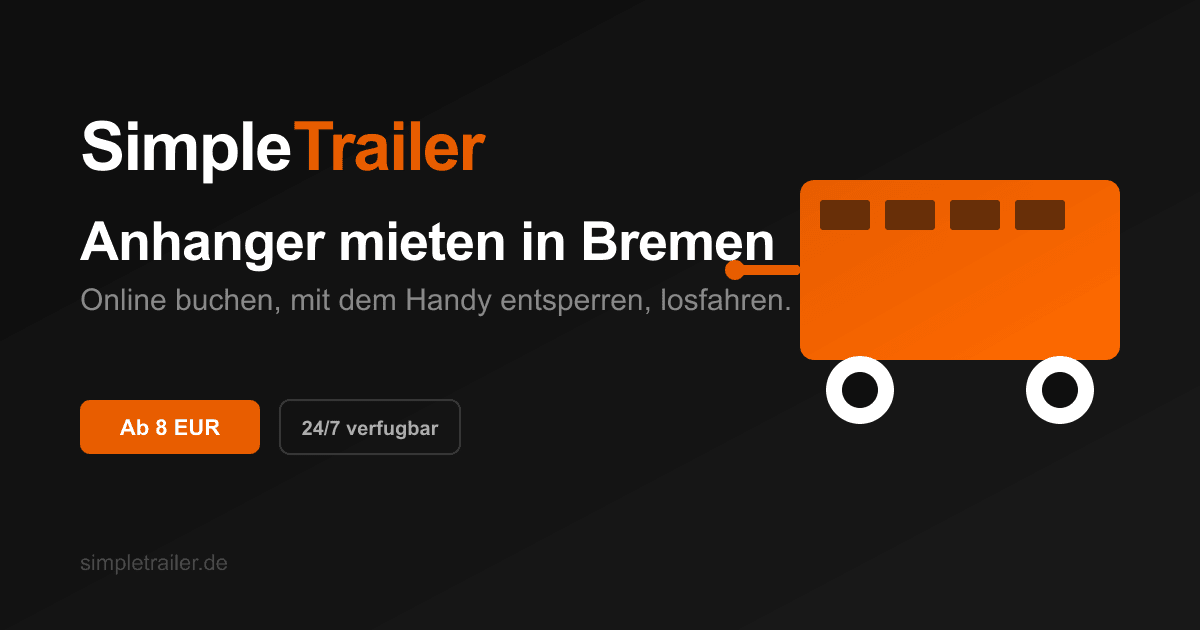
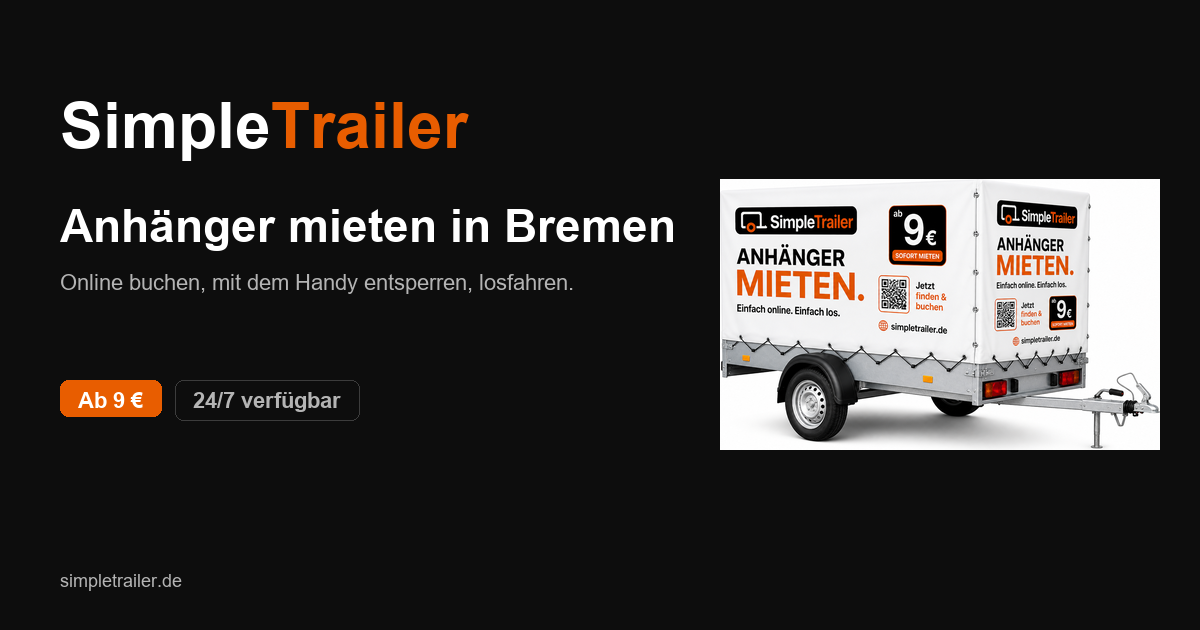
WebP fuer Trailer-Bilder + neues OG-Image + Sentry vorbereitet
Performance:
- anhaenger.png 1248 KB -> anhaenger.webp 106 KB (-91%)
- autotransporter.png 807 KB -> autotransporter.webp 74 KB (-91%)
- HTML nutzt <picture> mit WebP-Source + PNG-Fallback fuer alte Browser

Branding:
- og-image.png komplett neu generiert mit echtem Anhaenger-Mockup,
  korrekten Umlauten ("Anhaenger", "verfuegbar"), aktuellem Preis (9 EUR)

Error-Monitoring:
- Sentry-Hook in analytics.js eingebaut (inaktiv bis DSN gesetzt)
- User-Setup: sentry.io Account, Projekt anlegen, DSN in
  analytics.js Zeile SENTRY_DSN einsetzen
- Cache-Buster analytics.js v=9 -> v=10

diff --git a/index.html b/index.html
@@ -35,7 +35,7 @@
   <!-- PWA Manifest + Apple-Touch-Icon -->
   <link rel="manifest" href="/manifest.webmanifest" />
   <script src="/native-bridge.js?v=9" defer></script>
-  <script src="/analytics.js?v=9" defer></script>
+  <script src="/analytics.js?v=10" defer></script>
 
   <!-- Strukturierte Daten: Lokales Geschäft (für Google Maps + Knowledge Panel + Rich Snippets) -->
   <script type="application/ld+json">
@@ -1777,9 +1777,12 @@
       <!-- PKW-Anhänger mit Plane -->
       <div class="trailer-card reveal">
         <div class="trailer-card-img">
-          <img src="anhaenger.png?v=3" alt="PKW-Anhänger mit Plane"
-               loading="lazy" decoding="async" width="600" height="400"
-               onerror="this.style.display='none';this.nextElementSibling.style.display='flex';" />
+          <picture>
+            <source srcset="anhaenger.webp" type="image/webp" />
+            <img src="anhaenger.png?v=3" alt="PKW-Anhänger mit Plane"
+                 loading="lazy" decoding="async" width="600" height="400"
+                 onerror="this.style.display='none';this.nextElementSibling.style.display='flex';" />
+          </picture>
           <div class="trailer-card-img-placeholder" style="display:none;">🚛</div>
         </div>
         <div class="trailer-card-body">
@@ -1803,9 +1806,12 @@
       <!-- Autotransporter -->
       <div class="trailer-card unavailable reveal">
         <div class="trailer-card-img">
-          <img src="autotransporter.png?v=2" alt="Autotransporter Anhänger bei SimpleTrailer Bremen"
-               loading="lazy" decoding="async" width="600" height="400"
-               onerror="this.style.display='none';this.nextElementSibling.style.display='flex';" />
+          <picture>
+            <source srcset="autotransporter.webp" type="image/webp" />
+            <img src="autotransporter.png?v=2" alt="Autotransporter Anhänger bei SimpleTrailer Bremen"
+                 loading="lazy" decoding="async" width="600" height="400"
+                 onerror="this.style.display='none';this.nextElementSibling.style.display='flex';" />
+          </picture>
           <div class="trailer-card-img-placeholder" style="display:none;">🚗</div>
           <div class="unavail-overlay">
             <span style="color:#fff;font-size:.8rem;font-weight:700;letter-spacing:.05em;text-transform:uppercase;background:rgba(0,0,0,.6);padding:8px 16px;border-radius:20px;">Demnächst</span>
@@ -2435,8 +2441,8 @@
 
   /* ── TRAILER BILDER ─────────────────────────── */
   const TYPE_IMAGES = {
-    'Planenanhänger': 'anhaenger.png?v=3',
-    'Autotransporter': 'autotransporter.png?v=2',
+    'Planenanhänger': 'anhaenger.webp',
+    'Autotransporter': 'autotransporter.webp',
     // Zukünftige Typen hier ergänzen:
     // 'Kofferanhänger': 'koffer.png',
   };

diff --git a/analytics.js b/analytics.js
@@ -125,6 +125,44 @@
   } catch (e) { /* ignore */ }
 
   // ────────────────────────────────────────────────────────────
+  // 6) SENTRY ERROR MONITORING
+  // ────────────────────────────────────────────────────────────
+  // SETUP (einmalig, ~5 Min):
+  //  1) Account auf sentry.io anlegen (gratis: 5k Errors/Monat reicht locker)
+  //  2) "Create Project" -> Plattform "JavaScript / Browser" -> Name "simpletrailer-web"
+  //  3) DSN kopieren (Format: https://abc123@oXYZ.ingest.sentry.io/123)
+  //  4) DSN unten in SENTRY_DSN einsetzen, Datei pushen
+  //  5) Ab da: bei jedem JS-Crash kommt Mail mit Stack-Trace + User-Aktionen davor
+  const SENTRY_DSN = ''; // <- TODO: DSN aus Sentry-Dashboard hier einsetzen
+
+  if (SENTRY_DSN) {
+    try {
+      const onProd = location.hostname === 'simpletrailer.de'
+                  || location.hostname.endsWith('.vercel.app');
+      if (onProd) {
+        const s = document.createElement('script');
+        s.src = 'https://browser.sentry-cdn.com/8.13.0/bundle.min.js';
+        s.crossOrigin = 'anonymous';
+        s.onload = function () {
+          if (window.Sentry) {
+            window.Sentry.init({
+              dsn: SENTRY_DSN,
+              environment: location.hostname.includes('vercel.app') ? 'staging' : 'prod',
+              tracesSampleRate: 0.1, // 10% Performance-Tracing
+              ignoreErrors: [
+                /chrome-extension/i, /moz-extension/i, /safari-extension/i,
+                'ResizeObserver loop limit exceeded',
+                'Non-Error promise rejection captured'
+              ]
+            });
+          }
+        };
+        document.head.appendChild(s);
+      }
+    } catch (e) { /* ignore */ }
+  }
+
+  // ────────────────────────────────────────────────────────────
   // 5) Auto-Tracking wichtiger Funnel-Schritte
   // ────────────────────────────────────────────────────────────
   document.addEventListener('DOMContentLoaded', function () {

diff --git a/booking.html b/booking.html
@@ -11,7 +11,7 @@
   <meta name="robots" content="index, follow" />
   <script src="https://js.stripe.com/v3/"></script>
   <script src="/native-bridge.js?v=9" defer></script>
-  <script src="/analytics.js?v=9" defer></script>
+  <script src="/analytics.js?v=10" defer></script>
   <style>
     *, *::before, *::after { box-sizing: border-box; margin: 0; padding: 0; }
     :root {
@@ -371,8 +371,11 @@
     <!-- Trailer -->
     <div class="card">
       <div class="trailer-preview">
-        <img src="anhaenger.png?v=3" alt="PKW-Anhänger mit Plane bei SimpleTrailer" class="trailer-img"
-             onerror="this.style.display='none';this.nextElementSibling.style.display='flex';" />
+        <picture>
+          <source srcset="anhaenger.webp" type="image/webp" />
+          <img src="anhaenger.png?v=3" alt="PKW-Anhänger mit Plane bei SimpleTrailer" class="trailer-img"
+               onerror="this.style.display='none';this.nextElementSibling.style.display='flex';" />
+        </picture>
         <div class="trailer-img-placeholder" style="display:none;">📷</div>
         <div style="flex:1;min-width:0;">
           <div style="display:flex;align-items:center;gap:8px;margin-bottom:6px;flex-wrap:wrap;">

diff --git a/return.html b/return.html
@@ -7,7 +7,7 @@
   <meta name="viewport" content="width=device-width, initial-scale=1.0" />
   <title>Rückgabe – SimpleTrailer</title>
   <script src="/native-bridge.js?v=9" defer></script>
-  <script src="/analytics.js?v=9" defer></script>
+  <script src="/analytics.js?v=10" defer></script>
   <style>
     *, *::before, *::after { box-sizing: border-box; margin: 0; padding: 0; }
     :root { --bg:#0D0D0D; --s1:#161616; --s2:#1E1E1E; --orange:#E85D00; --white:#fff; --gray:#888; --border:#383838; --green:#22c55e; --font:'Inter',system-ui,sans-serif; }

diff --git a/booking-confirm.html b/booking-confirm.html
@@ -7,7 +7,7 @@
   <meta name="viewport" content="width=device-width, initial-scale=1.0" />
   <title>Buchung bestätigt – SimpleTrailer</title>
   <script src="/native-bridge.js?v=9" defer></script>
-  <script src="/analytics.js?v=9" defer></script>
+  <script src="/analytics.js?v=10" defer></script>
   <style>
     *, *::before, *::after { box-sizing: border-box; margin: 0; padding: 0; }
     :root { --bg:#0D0D0D; --s1:#161616; --orange:#E85D00; --white:#fff; --gray:#888; --border:#383838; --font:'Inter',system-ui,sans-serif; }

diff --git a/account.html b/account.html
@@ -8,7 +8,7 @@
   <title>Mein Konto – SimpleTrailer</title>
   <script src="https://js.stripe.com/v3/"></script>
   <script src="/native-bridge.js?v=9" defer></script>
-  <script src="/analytics.js?v=9" defer></script>
+  <script src="/analytics.js?v=10" defer></script>
   <style>
     @keyframes spin { to { transform: rotate(360deg); } }
     *, *::before, *::after { box-sizing: border-box; margin: 0; padding: 0; }

diff --git a/admin.html b/admin.html
@@ -6,7 +6,7 @@
   <link rel="apple-touch-icon" href="/logo-icon.png?v=5" />
   <meta name="viewport" content="width=device-width, initial-scale=1.0" />
   <title>Admin – SimpleTrailer</title>
-  <script src="/analytics.js?v=9" defer></script>
+  <script src="/analytics.js?v=10" defer></script>
   <style>
     *, *::before, *::after { box-sizing: border-box; margin: 0; padding: 0; }
     :root {

diff --git a/precheck.html b/precheck.html
@@ -7,7 +7,7 @@
   <meta name="viewport" content="width=device-width, initial-scale=1.0" />
   <title>Vorab-Check – SimpleTrailer</title>
   <script src="/native-bridge.js?v=9" defer></script>
-  <script src="/analytics.js?v=9" defer></script>
+  <script src="/analytics.js?v=10" defer></script>
   <style>
     *, *::before, *::after { box-sizing: border-box; margin: 0; padding: 0; }
     :root {

diff --git a/ratgeber/index.html b/ratgeber/index.html
@@ -21,7 +21,7 @@
 
   <link rel="apple-touch-icon" href="/apple-touch-icon.png" />
   <script src="/native-bridge.js?v=9" defer></script>
-  <script src="/analytics.js?v=9" defer></script>
+  <script src="/analytics.js?v=10" defer></script>
 
   <!-- CollectionPage Schema mit Verknüpfung zum Business -->
   <script type="application/ld+json">

diff --git a/ratgeber/anhaenger-ankuppeln-anleitung.html b/ratgeber/anhaenger-ankuppeln-anleitung.html
@@ -19,7 +19,7 @@
   <meta property="og:locale" content="de_DE" />
 
   <script src="/native-bridge.js?v=9" defer></script>
-  <script src="/analytics.js?v=9" defer></script>
+  <script src="/analytics.js?v=10" defer></script>
 
   <script type="application/ld+json">
   {

diff --git a/ratgeber/anhaenger-richtig-beladen.html b/ratgeber/anhaenger-richtig-beladen.html
@@ -19,7 +19,7 @@
   <meta property="og:locale" content="de_DE" />
 
   <script src="/native-bridge.js?v=9" defer></script>
-  <script src="/analytics.js?v=9" defer></script>
+  <script src="/analytics.js?v=10" defer></script>
 
   <script type="application/ld+json">
   {

diff --git a/ratgeber/welcher-anhaenger-mit-b-fuehrerschein.html b/ratgeber/welcher-anhaenger-mit-b-fuehrerschein.html
@@ -19,7 +19,7 @@
   <meta property="og:locale" content="de_DE" />
 
   <script src="/native-bridge.js?v=9" defer></script>
-  <script src="/analytics.js?v=9" defer></script>
+  <script src="/analytics.js?v=10" defer></script>
 
   <script type="application/ld+json">
   {
